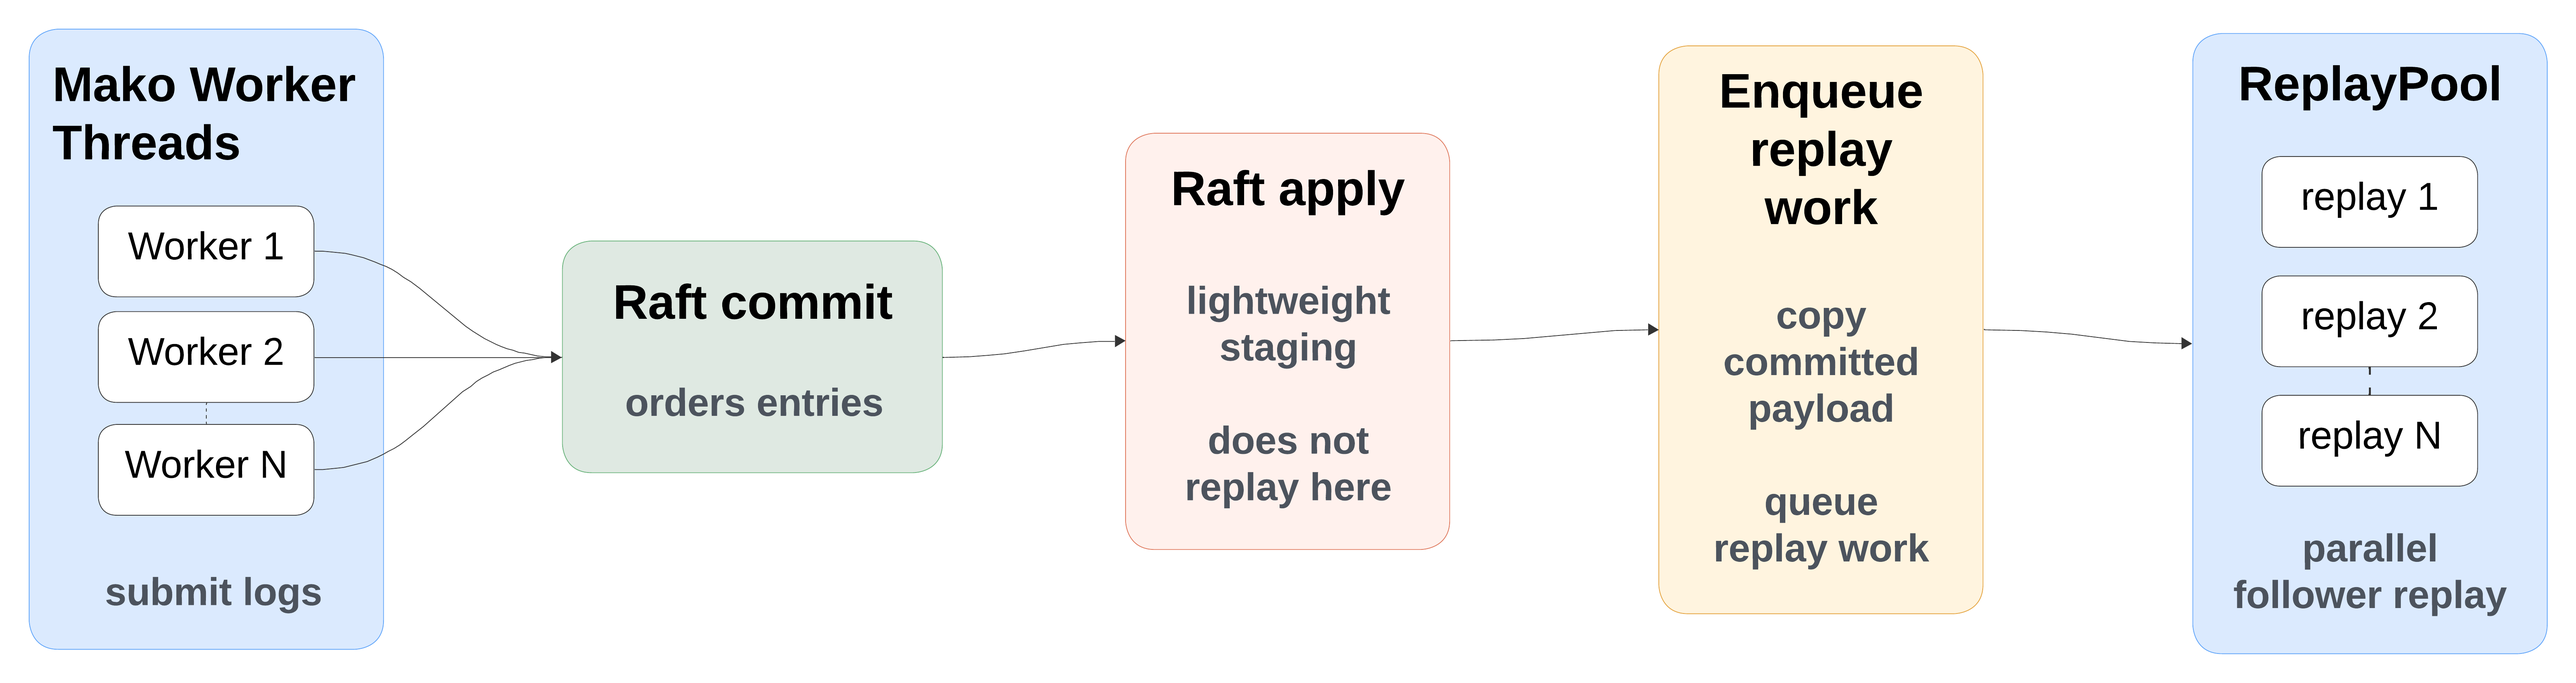
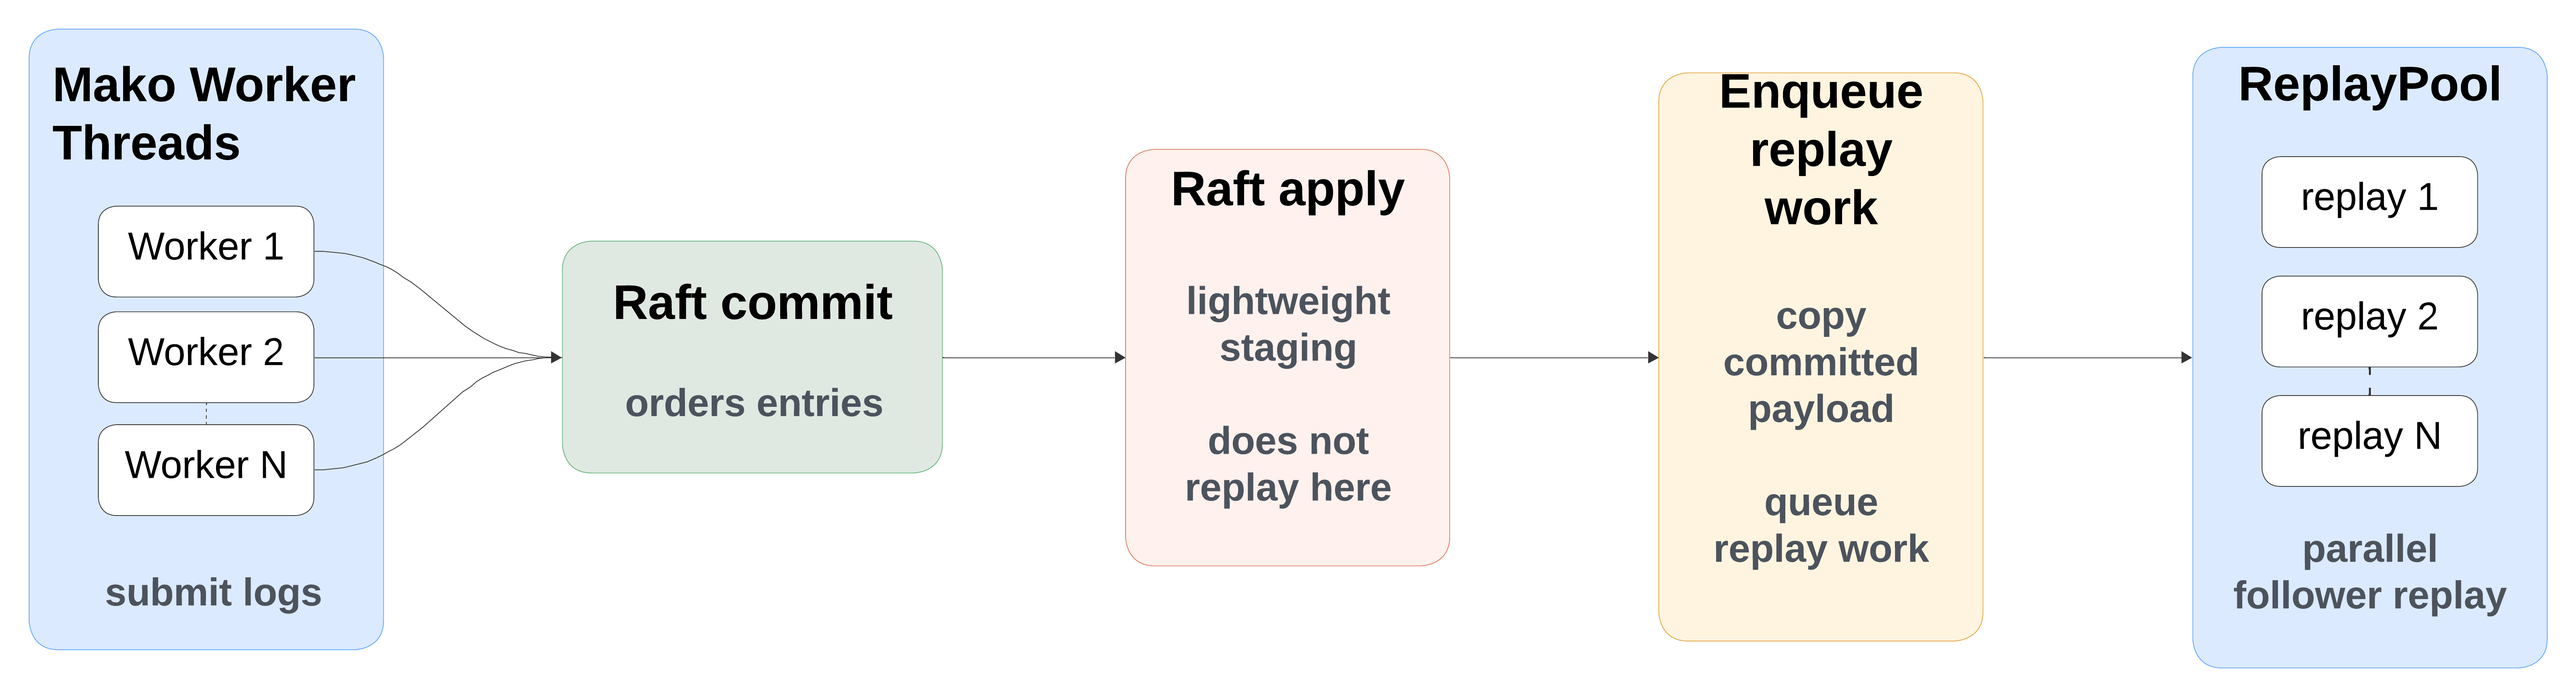
Thesis : Fix Figure 5

diff --git a/doc/thesis/latex/chapters/08_evaluation.tex b/doc/thesis/latex/chapters/08_evaluation.tex
@@ -80,7 +80,7 @@ Workload &
 Mako TPC-C-style benchmark, sharded by warehouse. \\
 \addlinespace
 Worker/thread range &
-One through eleven Mako worker threads. In this benchmark setup, each worker lane is associated with a partitioned transaction-log stream. \\
+One through eleven Mako worker threads. In this benchmark setup, increasing the worker count also increases the number of warehouse-sized partition lanes; each worker lane is associated with one partitioned transaction-log stream. \\
 \addlinespace
 Transaction mix &
 New-order 44\%, payment 44\%, delivery 4\%, order-status 4\%, and stock-level 4\%. \\

diff --git a/doc/thesis/latex/chapters/05_single_raft_replaypool.tex b/doc/thesis/latex/chapters/05_single_raft_replaypool.tex
@@ -231,7 +231,8 @@ underlying concurrency-control mechanisms also use atomic compare-and-swap
 style checks to avoid blindly overwriting state when another thread has changed
 the expected version first. In other words, Raft supplies the committed order,
 while Mako is responsible for making parallel replay safe for its own
-partitioned data model.
+partitioned data model. This thesis inherits those Mako transaction semantics;
+it does not re-prove Mako's concurrency-control protocol.
 
 \section{Why ReplayPool Is a Systems Contribution}
 
